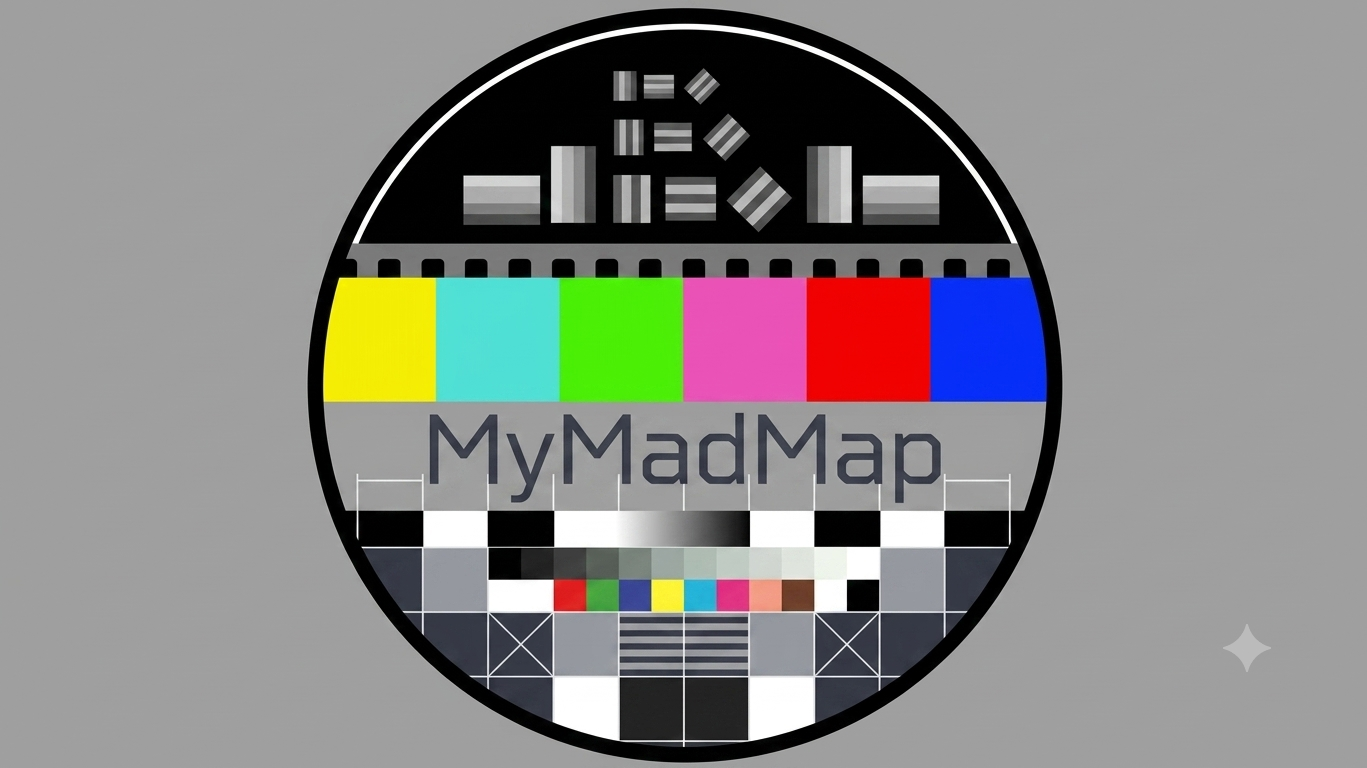
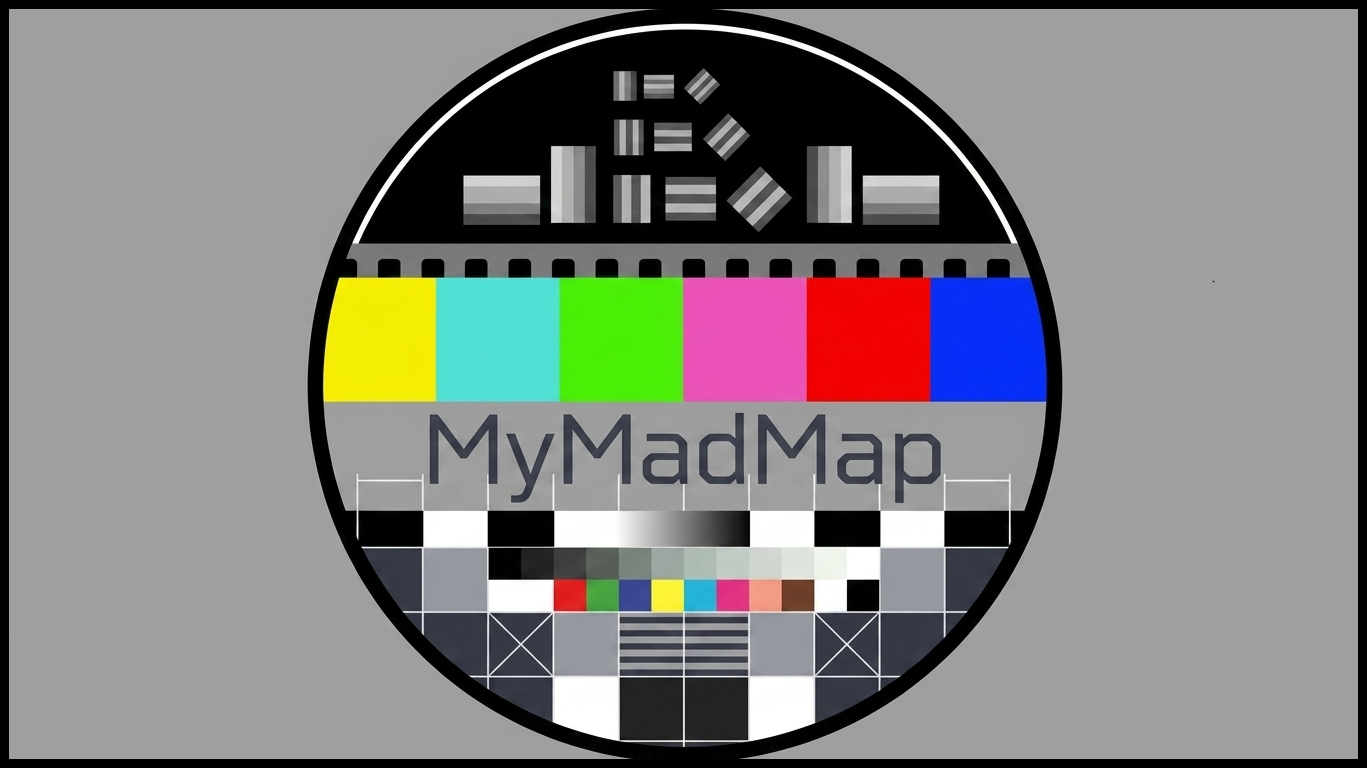
chore: bump version to 1.0.3

Changed region(s): [[0.0, 0.0, 1.0, 1.0], [0.891, 0.8125, 0.9217, 0.875]]

diff --git a/src/core/MM.cpp b/src/core/MM.cpp
@@ -45,7 +45,7 @@ QIcon MM::themedIcon(const QString& resource)
 }
 
 const QString MM::APPLICATION_NAME = "MyMapMap";
-const QString MM::VERSION = "1.0.2";
+const QString MM::VERSION = "1.0.3";
 const QString MM::COPYRIGHT_OWNERS = "Alexandre Quessy, Sofian Audry, Dame Diongue, Mike Latona, Vasilis Liaskovitis";
 const QString MM::ORGANIZATION_NAME = "MyMapMap";
 const QString MM::ORGANIZATION_DOMAIN = "artpluscode.com";